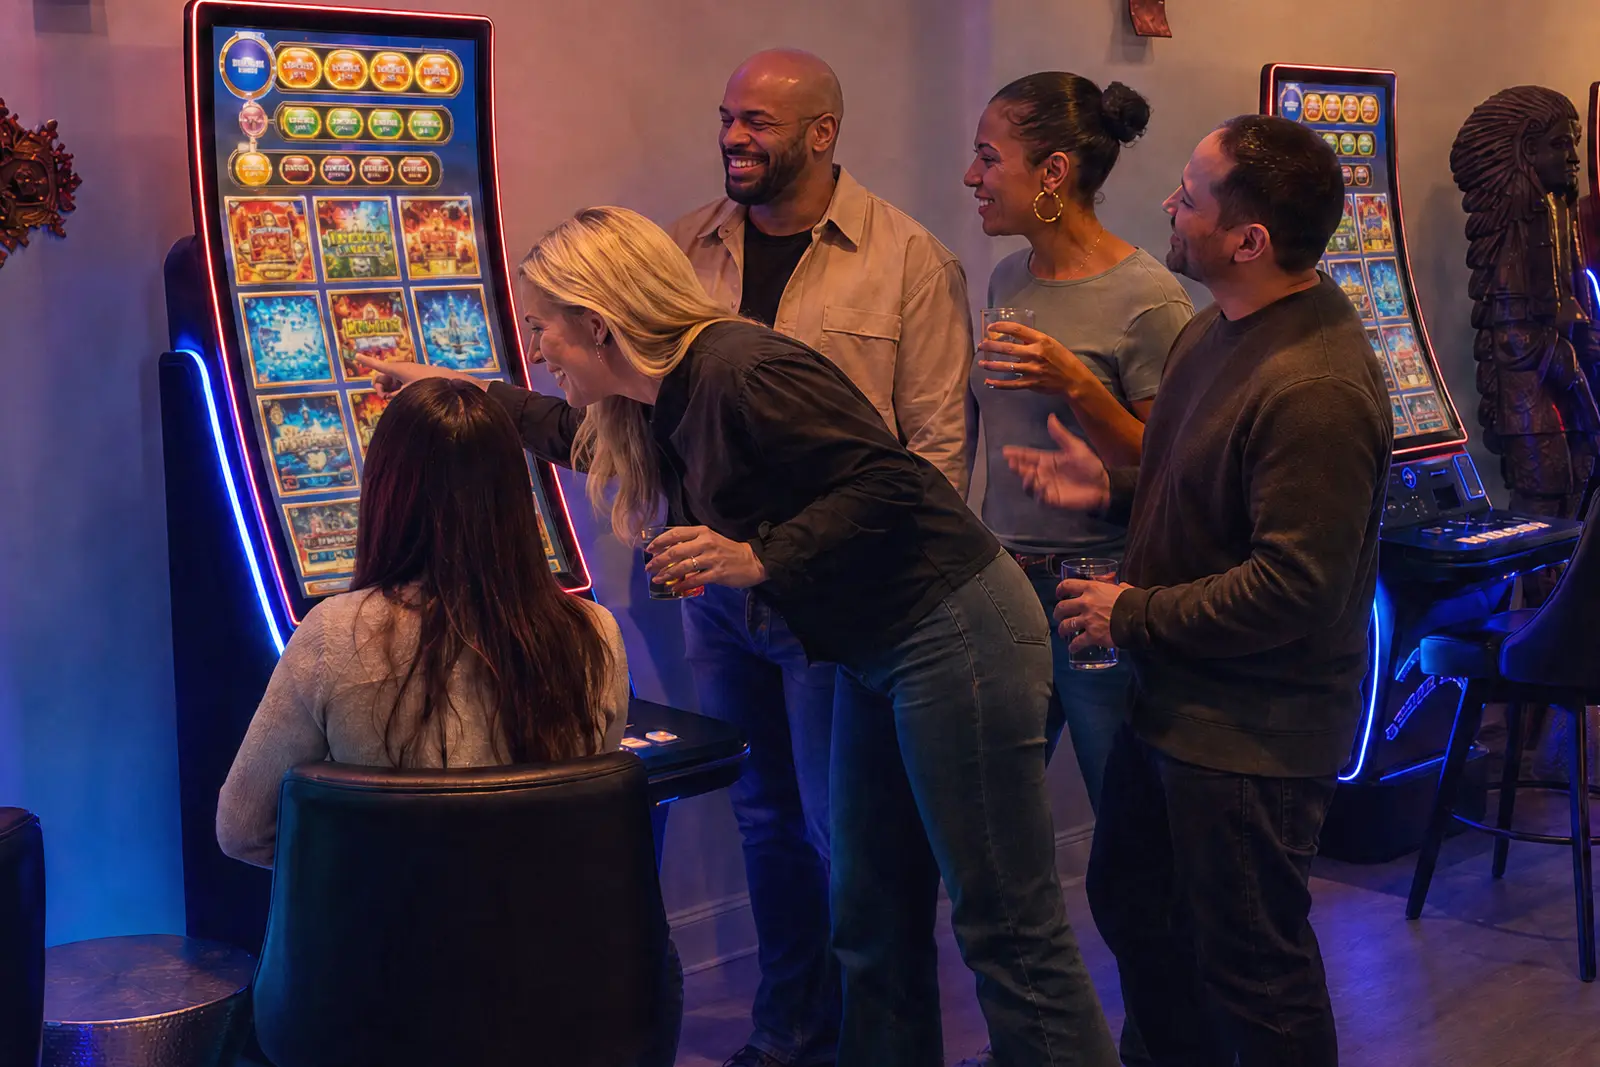
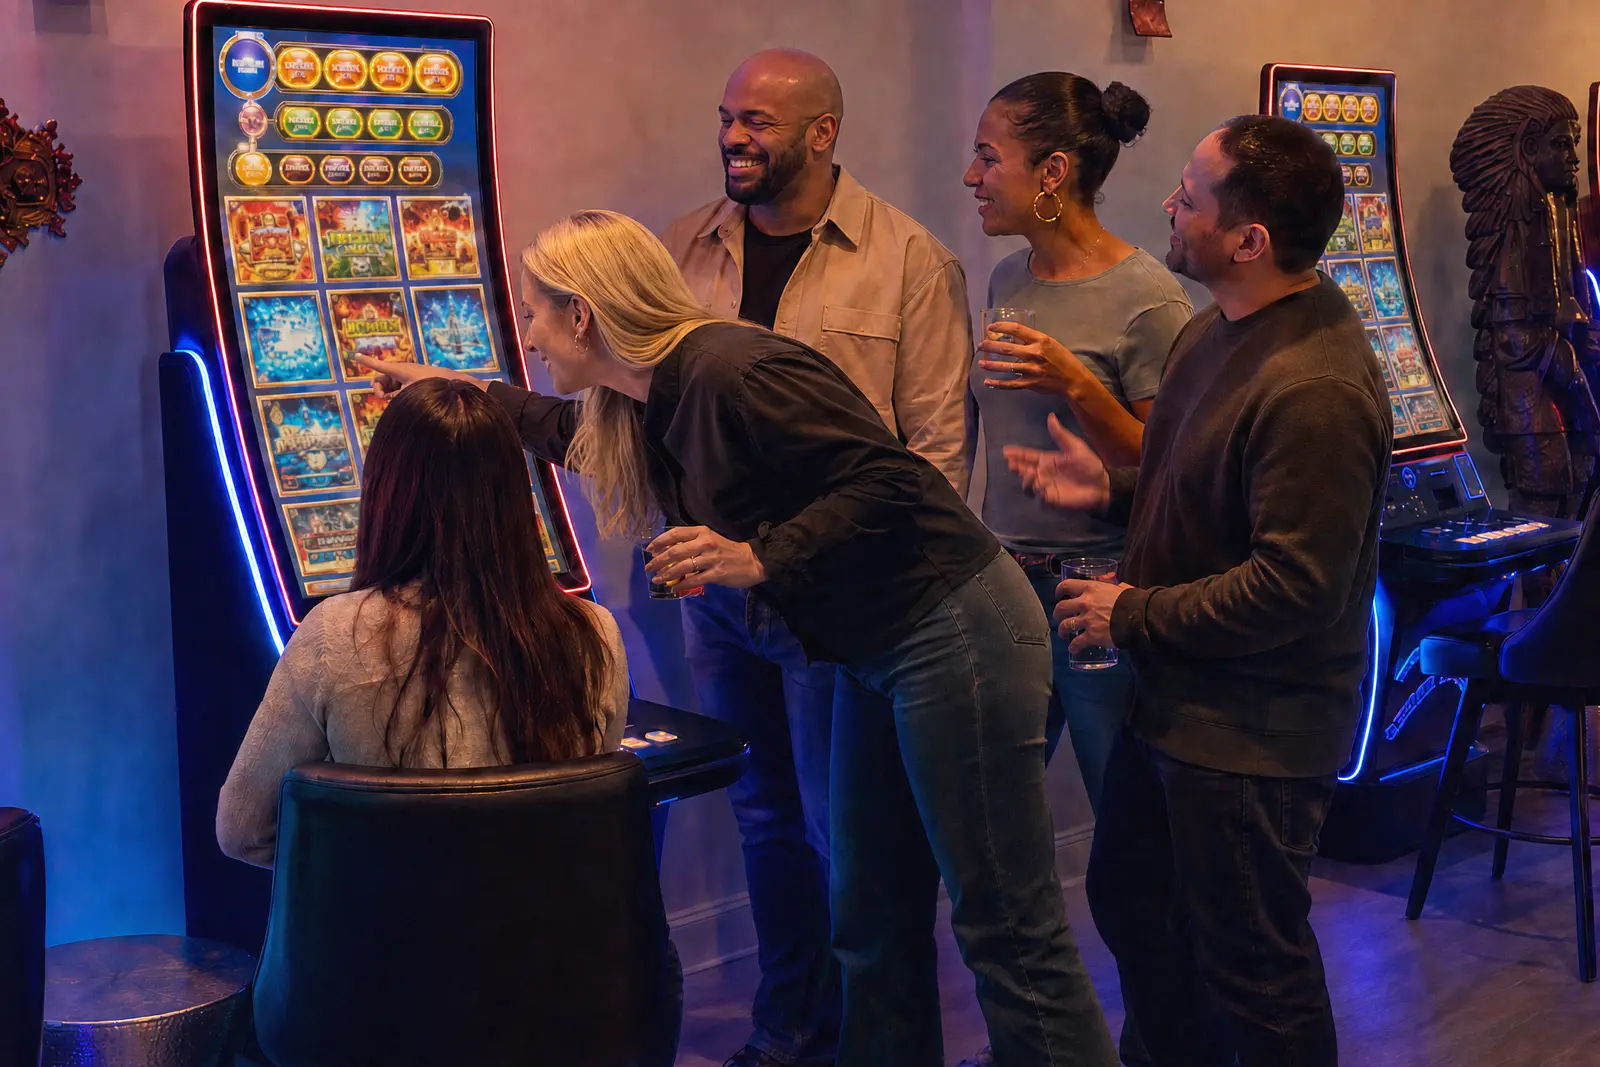
The afterparty v3: turn the blonde's gaze to the screen she's pointing at

diff --git a/assets/global.js b/assets/global.js
@@ -388,10 +388,12 @@
   }
 
   /* --- contact form ---
-     Static site, no backend. Submits to a form service via fetch. Set
-     FORM_ENDPOINT to a Web3Forms/Formspree URL (or a Vercel /api route).
-     Until it's set, the form validates and tells the visitor to call. */
-  var FORM_ENDPOINT = ""; // TODO: paste Web3Forms/Formspree endpoint here
+     Static site, no backend. Submits to Web3Forms, which delivers to
+     [email redacted]. The destination is set by the access_key
+     hidden field in index.html, not here — swapping where mail lands means
+     issuing a new key, not editing this file.
+     Until the key is filled in, the form validates and tells the visitor to call. */
+  var FORM_ENDPOINT = "https://api.web3forms.com/submit";
   var cform = document.getElementById("contactForm");
   if (cform) {
     var status = cform.querySelector(".ff-status");
@@ -404,7 +406,8 @@
       e.preventDefault();
       if (cform.querySelector('[name="_gotcha"]').value) return; // bot
       if (!cform.checkValidity()) { cform.reportValidity(); return; }
-      if (!FORM_ENDPOINT) {
+      var akey = cform.querySelector('[name="access_key"]');
+      if (!FORM_ENDPOINT || !akey || !akey.value) {
         setStatus("Thanks! Email isn't wired up yet — please call (312) 218-7677.", "err");
         return;
       }

diff --git a/index.html b/index.html
@@ -407,6 +407,11 @@
       </label>
       <!-- honeypot: real people leave this empty -->
       <input type="text" name="_gotcha" tabindex="-1" autocomplete="off" aria-hidden="true" class="ff-hp">
+      <!-- Web3Forms delivery: access_key is bound to [email redacted].
+           Paste the key from the Web3Forms setup email into value="" below. -->
+      <input type="hidden" name="access_key" value="">
+      <input type="hidden" name="subject" value="New contact form message — theflamechicago.com">
+      <input type="hidden" name="from_name" value="The Flame Chicago website">
       <div class="ff-foot">
         <button type="submit" class="btn btn-ring"><span>Send message</span><span class="btn-ring-line" aria-hidden="true"></span></button>
         <p class="ff-status" role="status" aria-live="polite"></p>

diff --git a/IMAGE-PLAN.md b/IMAGE-PLAN.md
@@ -266,6 +266,8 @@ Two rejected siblings from the same round are filed at `creative-direction/occas
 
 Then post only: crop `1635x1090+65+30` (centres the group, drops the empty machine-row third and the foreground floor), grade `-gamma 1.22 -brightness-contrast 4x3`, Lanczos to 1600×1067, webp q72 → 117KB.
 
+**v3 — the blonde's gaze.** She was pointing at the screen while looking away from it. One more surgical pass (`fix2.txt`, anchored on the v2 crop *before* grading) turns only her head and eyes toward the cabinet; everything else held, including the man's grin and the repaired screens. Regraded `-gamma 1.26 -brightness-contrast 4x3` to land back at mean 21.6. Note each surgical pass comes back at roughly the same raw mean (~13.7), so the grade has to be re-applied every time — never grade before a render pass, only after.
+
 **Calibrate brightness against the set, don't eyeball it.** Mean grey (`magick f -colorspace Gray -format '%[fx:mean*100]' info:`) across the occasion rail runs 17–29. v1 sat at 14 — genuinely too dark, which is what Tyler flagged. v2 lands at 21.5: mid-pack, still the latest-feeling frame in the chooser, blacks uncrushed.
 
 ## Notes / open